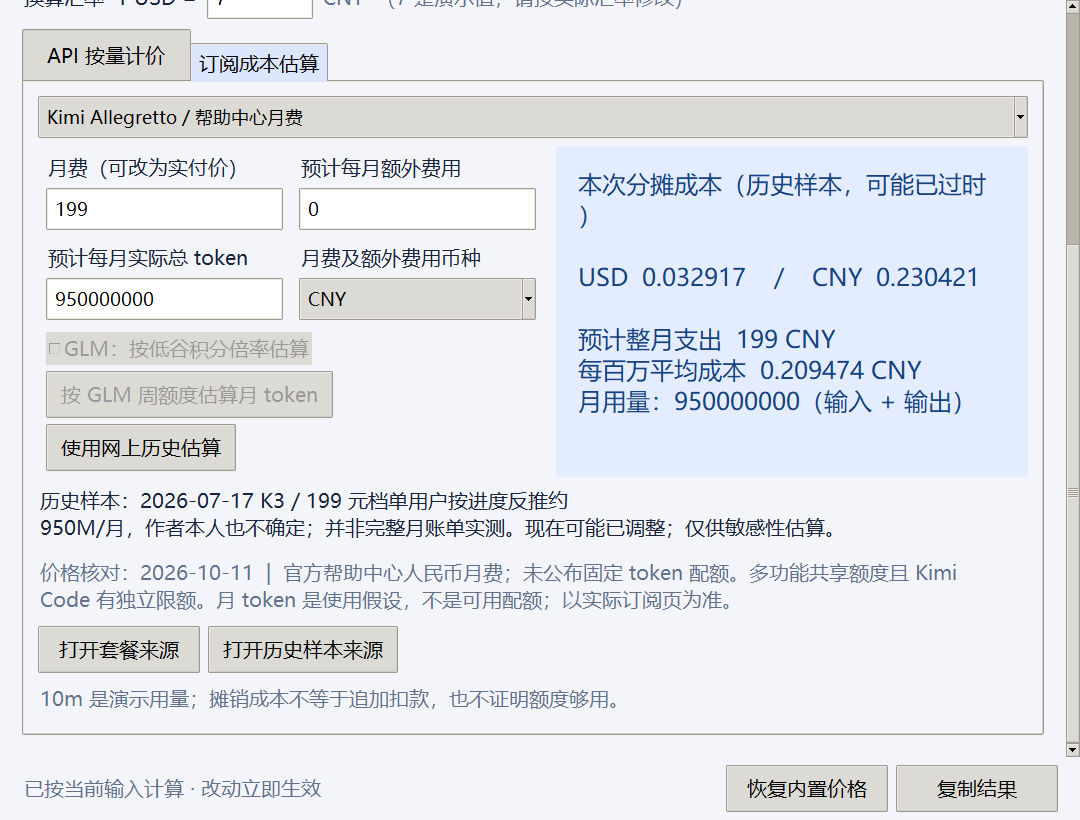
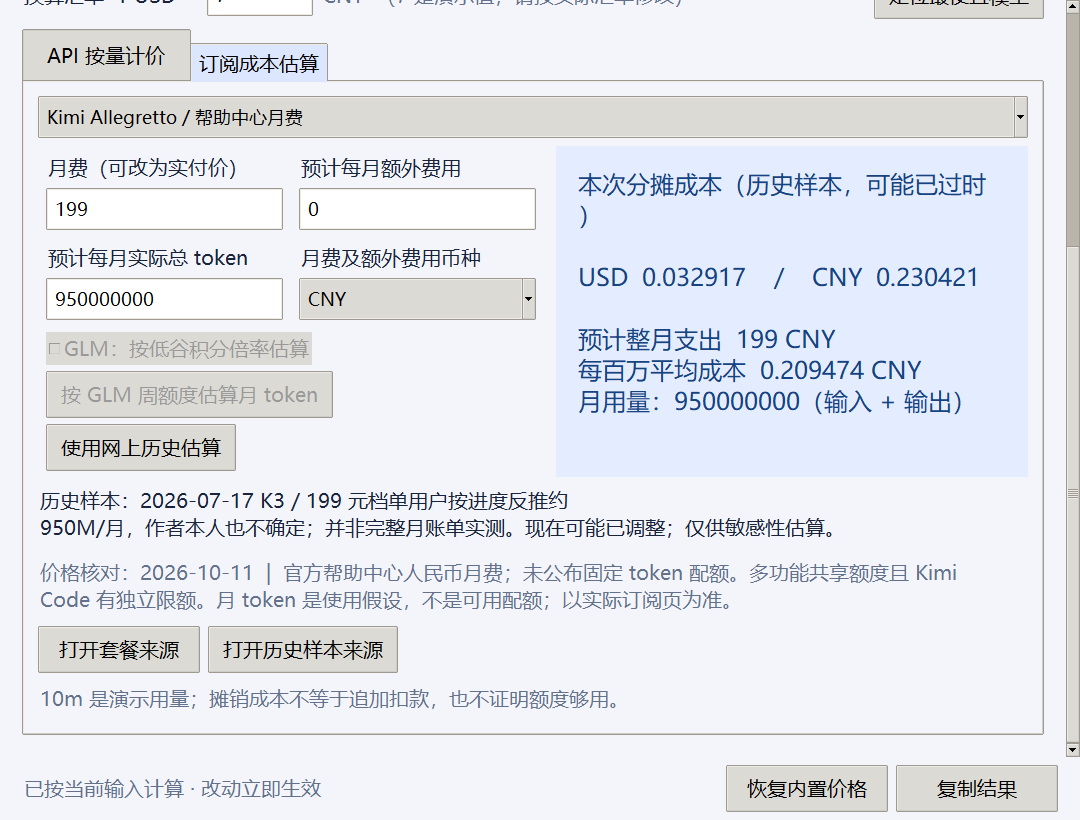
Add one-click cheapest API model selection

diff --git a/app.py b/app.py
@@ -12,7 +12,7 @@ from decimal import Decimal
 from pathlib import Path
 from tkinter import filedialog, messagebox, simpledialog, ttk
 
-from pricing import (MILLION, RATE_KEYS, calculate, convert, credits, money,
+from pricing import (MILLION, RATE_KEYS, calculate, cheapest_models, convert, credits, money,
                      number, parse_catalog, read_catalog, save_catalog,
                      subscription, usage)
 
@@ -117,6 +117,8 @@ class App(tk.Tk):
         self.fx = self.var("7")
         ttk.Entry(fxrow, textvariable=self.fx, width=8).pack(side="left", padx=8)
         ttk.Label(fxrow, text="CNY  （7 是演示值，请按实际汇率修改）", style="Muted.TLabel").pack(side="left")
+        self.cheapest_button = ttk.Button(fxrow, text="定位最便宜模型", command=self.find_cheapest)
+        self.cheapest_button.pack(side="right")
 
         self.tabs = ttk.Notebook(body)
         self.tabs.pack(fill="both", expand=True)
@@ -322,6 +324,26 @@ class App(tk.Tk):
             self.month.set(str(capacity))
         except ValueError as exc:
             messagebox.showerror("无法估算月用量", str(exc), parent=self)
+
+    def find_cheapest(self):
+        try:
+            winners, compared, skipped = cheapest_models(self.catalog["models"], self.counts(), self.fx.get())
+        except ValueError as exc:
+            messagebox.showerror("无法比较价格", str(exc), parent=self)
+            return
+        model, usd, cny = winners[0]
+        self.tabs.select(0)
+        self.model.set(model["name"])
+        self.select_model()
+        self.scroll_canvas.yview_moveto(0)
+        names = "\n".join(item[0]["name"] for item in winners)
+        messagebox.showinfo("当前用量的最低 API 费用",
+                            f"{names}\n\nUSD {money(usd)} / CNY {money(cny)}\n"
+                            f"已比较 {compared} 个已保存档位；跳过 {skipped} 个缺少缓存写入单价的档位。\n"
+                            + (f"共 {len(winners)} 个并列最低，已定位第一个。\n" if len(winners) > 1 else "已自动选中该档位。\n")
+                            + "按价格表和当前汇率比较，临时修改的单价需先另存模型。\n"
+                            "请核对所选档位的地区、时段、上下文和优惠条件；订阅摊销不参与 API 比价。",
+                            parent=self)
 
     def use_sample(self):
         sample = self.selected("plans").get("sample")

diff --git a/tests/test_pricing.py b/tests/test_pricing.py
@@ -6,7 +6,7 @@ from decimal import Decimal as D
 from pathlib import Path
 from unittest.mock import patch
 
-from pricing import (calculate, convert, credits, number, parse_catalog,
+from pricing import (calculate, cheapest_models, convert, credits, number, parse_catalog,
                      read_catalog, save_catalog, subscription, tokens, usage)
 
 
@@ -69,6 +69,19 @@ class PricingTests(unittest.TestCase):
         self.assertEqual(subscription(10, 110, counts)["allocated"], 10)
         with self.assertRaises(ValueError):
             credits(dict(weights=dict(input="6.9", cached="1.7", output="24")), counts)
+
+    def test_cheapest_currency_ties_and_missing_write(self):
+        models = [dict(name="USD", currency="USD", rates=dict(input="2", cached="1", output="3", write=None)),
+                  dict(name="CNY", currency="CNY", rates=dict(input="7", cached="7", output="21", write="7"))]
+        winners, compared, skipped = cheapest_models(models, usage("1m", 0, 0), "7")
+        self.assertEqual([w[0]["name"] for w in winners], ["CNY"])
+        self.assertEqual((compared, skipped), (2, 0))
+        self.assertEqual(len(cheapest_models(models, usage("1m", "1m", 0), "7")[0]), 2)
+        self.assertEqual(cheapest_models(models, usage(1, 0, 0, 1), "7")[1:], (1, 1))
+        with self.assertRaises(ValueError):
+            cheapest_models(models[:1], usage(1, 0, 0, 1), "7")
+        with self.assertRaises(ValueError):
+            cheapest_models(models, usage(1, 0, 0), "0")
 
     def test_catalog_roundtrip_and_atomic_failure(self):
         data = read_catalog(Path(__file__).parents[1] / "prices.json")

diff --git a/tests/test_gui.py b/tests/test_gui.py
@@ -53,6 +53,27 @@ class GuiTests(unittest.TestCase):
         app.month.set("0")
         self.assertEqual(app.last_result, "")
 
+    def test_cheapest_button_selects_saved_model_and_rejects_invalid_usage(self):
+        app = self.app
+        app.total.set("1.09b")
+        app.cached.set("1.04b")
+        app.output.set("2.89m")
+        app.tabs.select(1)
+        expected = min(app.catalog["models"], key=lambda m: sum(
+            float(m["rates"][k]) * count for k, count in
+            (("input", 50), ("cached", 1040), ("output", 2.89))) / (7 if m["currency"] == "CNY" else 1))
+        with patch("app.messagebox.showinfo") as info:
+            app.cheapest_button.invoke()
+        self.assertEqual(app.model.get(), expected["name"])
+        self.assertEqual(app.tabs.index(app.tabs.select()), 0)
+        self.assertIn(expected["name"], info.call_args.args[1])
+        self.assertIn("USD", app.api_result.cget("text"))
+        app.cached.set("2b")
+        with patch("app.messagebox.showerror") as error:
+            app.cheapest_button.invoke()
+        error.assert_called_once()
+        self.assertEqual(app.model.get(), expected["name"])
+
     def test_save_and_reload_custom_price(self):
         app = self.app
         app.rate_vars["input"].set("0.123")

diff --git a/pricing.py b/pricing.py
@@ -78,6 +78,22 @@ def convert(amount, currency, usd_cny):
     raise ValueError("币种只能是 USD 或 CNY")
 
 
+def cheapest_models(models, counts, usd_cny):
+    number(usd_cny, "换算汇率", positive=True)
+    candidates, skipped = [], 0
+    for model in models:
+        if counts["write"] and model["rates"].get("write") is None:
+            skipped += 1
+            continue
+        cost = calculate(model["rates"], counts)["total"]
+        usd, cny = convert(cost, model["currency"], usd_cny)
+        candidates.append((model, usd, cny))
+    if not candidates:
+        raise ValueError("价格表中没有可计算的档位，请补充缓存写入单价后再比较")
+    minimum = min(item[1] for item in candidates)
+    return [item for item in candidates if item[1] == minimum], len(candidates), skipped
+
+
 def subscription(monthly_fee, monthly_tokens, counts, extra=0):
     fee = number(monthly_fee, "月费")
     extra = number(extra, "每月额外费用")

diff --git a/docs/validation.md b/docs/validation.md
@@ -1,10 +1,11 @@
-# v1.0.1 验证记录
+# v1.0.2 验证记录
 
 2026-10-11，Windows 10 x64（19045），Python 3.11.1、Tk 8.6、PyInstaller 6.22.3。
 
-- `python -m unittest discover -s tests -v`：17 项通过。
+- `python -m unittest discover -s tests -v`：19 项通过。
 - 运算：B/b 十亿单位、小数及上限校验、十进制精度、缓存分项不重复、非法 token/单价、汇率、订阅月费和额外费用、GLM 高峰/低谷积分。
 - 配置：往返、重复字段/重复模型、负价/非有限值拒绝；模拟替换文件失败后，原文件和活动配置保持不变。
+- 比价：跨币种换算、并列、缺失缓存写入单价、无可用候选、非法汇率；实际按钮按 1.09B 输入、1.04B 缓存、2.89M 输出定位最低价，并拒绝无效用量。
 - GUI：所有 token 输入框的 B 单位 API/订阅计算；实际 Tk 控件变量和回调驱动的实时更新、错误时清空旧结果、GLM 月用量按钮、历史样本按钮及提示、自定义价格重启加载、导入/导出、复制结果。
 - GUI 视觉检查：实际窗口截图；发现高 DPI 下底部被裁切，改为滚动内容区并保持底部操作栏可见后重新检查。
 - Windows EXE：已构建，独立启动后出现 `Token计价器 · TokenPricer` 主窗口，进程响应正常。没有在全新 Windows 虚拟机中验收。

diff --git a/README.md b/README.md
@@ -22,6 +22,8 @@ Official price tables provide the rates; TokenPricer combines those rates with y
 
 ## Calculate API costs
 
+Click **定位最便宜模型** after entering usage to compare saved API profiles at the current exchange rate and select the cheapest. Ties are listed; profiles missing required cache-write prices are skipped. Check region, time, context and promotion conditions. Save edited rates as a model before comparing; subscription allocations are excluded.
+
 Input, cached input, cache writes and output are priced separately using decimal arithmetic. Cached reads and writes are subsets of total input, preventing double counting. Select the appropriate context or peak/off-peak profile before calculating. Output should include any billed reasoning tokens.
 
 ## Estimate subscription costs

diff --git a/README.zh.md b/README.zh.md
@@ -22,6 +22,8 @@ Token计价器是一个离线中文桌面小程序。输入输入、输出 token
 
 ## 计算 API 费用
 
+填写用量后点击 **定位最便宜模型**，按当前汇率比较已保存的 API 价格档位，自动选中最低价；并列时列出全部结果。缺少所需缓存写入价格的档位会跳过。请核对地区、时段、上下文与优惠条件；临时单价需先另存模型，订阅摊销不参与此比较。
+
 普通输入、缓存命中、缓存写入、输出分别计价，使用十进制运算。缓存命中和写入是总输入的子集，不重复相加。长短上下文、峰谷时段需要选择对应价格档；输出应包含实际计费的推理 token。
 
 ## 估算订阅成本
